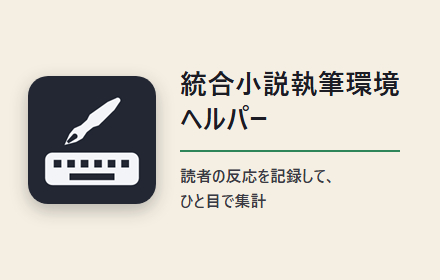
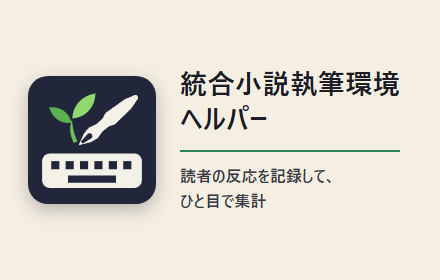
0.18.0：アイコンを 1.0.0 の共通アイコンへ前倒しで切り替える（作者の頼み、ストアの初回の提出に合わせて）
見張り（配布物の icons/ が docs/assets/icon-1.0.0 と同じ中身・ツールバー用の芽）を先に足してから写した。
ストアのアイコンとタイルも作り直し、提出の材料の版を 0.18.0 に揃えた。

Changed region(s): [[0.0886, 0.5429, 0.325, 0.6857], [0.0886, 0.3143, 0.325, 0.5143]]

diff --git a/test/icons.test.js b/test/icons.test.js
@@ -31,7 +31,17 @@ describe("ツールバー用のアイコン", () => {
     expect(existsSync(join(ルート, "icons", "toolbar.svg"))).toBe(true);
   });
 
-  ツールバーの絵を見張る("icons");
+  // 0.18.0：1.0.0 の共通アイコンへ切り替えた（作者の頼み 2026-11-01「アイコンは1.0.0以降のものにしてください」。
+  // Chrome ウェブストアへの初回の提出に合わせて前倒し）。芽の見張りも配布物の側で効かせる
+  ツールバーの絵を見張る("icons", { 芽: true });
+
+  it("配布物のアイコン一式は、docs/assets/icon-1.0.0 の共通アイコンと同じ中身", () => {
+    for (const 名前 of ["icon16.png", "icon32.png", "icon48.png", "icon128.png", "toolbar.svg", "toolbar16.png", "toolbar24.png", "toolbar32.png"]) {
+      const 配布 = readFileSync(join(ルート, "icons", 名前));
+      const 共通 = readFileSync(join(ルート, "docs", "assets", "icon-1.0.0", 名前));
+      expect(配布.equals(共通), 名前).toBe(true);
+    }
+  });
 });
 
 /**

diff --git a/store/提出の手順.md b/store/提出の手順.md
@@ -3,7 +3,7 @@
 統合小説執筆環境ヘルパーを、Chrome ウェブストアへ初めて出すときの手順です。
 **送信・支払い・同意は、すべて作者が押します。** Claude は材料を揃えただけで、ダッシュボードには触れていません。
 
-- 出す版：**0.17.3**（manifest.json・package.json とも 0.17.3。2026-11-01）
+- 出す版：**0.18.0**（manifest.json・package.json とも 0.18.0。2026-11-01。アイコンは 1.0.0 の共通アイコン）
 - 2回目以降は GitHub Actions で出せます（`store/自動公開の準備.md`）。初回だけは、この手順で手で出します
 - ダッシュボードの画面の項目名は、Claude が画面で確かめていません（2026-11-01）。名前が少し違っていたら、いちばん近いものを選んでください
 
@@ -36,13 +36,13 @@ Set-Location C:\Users\nonah\Documents\novel-post-helper
 npm run pack
 ```
 
-`dist\novel-ai-helper-0.17.3.zip` ができます（36ファイル・約178KB）。中身は拡張の実行に要るファイルだけで、
+`dist\novel-ai-helper-0.18.0.zip` ができます（36ファイル・約178KB）。中身は拡張の実行に要るファイルだけで、
 テスト・文書・ストアの材料・node_modules は入りません（2026-11-01 に確かめた）。
 
 ## 3. 新しいアイテムとして ZIP を上げる
 
 1. ダッシュボードの［新しいアイテム］（＋ New item）
-2. 上の `dist\novel-ai-helper-0.17.3.zip` を選んで上げる
+2. 上の `dist\novel-ai-helper-0.18.0.zip` を選んで上げる
 3. 名前「統合小説執筆環境ヘルパー」と概要は manifest.json から自動で入ります（ダッシュボードでは直せません）
 
 ## 4. ［ストアの掲載情報］（Store listing）
@@ -60,7 +60,7 @@ npm run pack
 | サポートの URL | https://github.com/nonahisa/novel-ai-helper/issues |
 | 成人向けの内容 | いいえ |
 
-画像は 2026-11-01 に `npm run store:images` で作り直した（説明のページの版の札が v0.17.3）。写っているのは架空の作品
+画像は 2026-11-01 に `npm run store:images` で作り直した（説明のページの版の札が v0.18.0）。写っているのは架空の作品
 （作品ID `1000000000000000001`・Nコード `N0000AA`）の見本の数だけで、作者の作品名・作品ID は写っていません。
 
 ## 5. ［プライバシーへの取り組み］（Privacy practices）

diff --git a/README.md b/README.md
@@ -737,7 +737,7 @@ novel-post-helper/
 ├─ offscreen.html/.js 画面に出ない、クリップボードの受け渡しのページ（押したときだけ開いて閉じる。0.8.0）
 ├─ bubble.html/.css/.js アイコンの吹き出し（「開いたときに自動で取得しますか？」と「取得しました」。出すときだけ結び付ける。0.14.0）
 ├─ options.html/.css/.js  説明のページ（使い方と「この拡張がしないこと」。0.8.0）。溜まり・覚えた作品の一覧、もう一度渡す（0.9.0）。はじめにの手順・読者の反応の集計・統合小説執筆環境への案内（0.10.0）
-├─ icons/             アイコン（統合小説執筆環境のアイコンから作った 16・32・48・128）と、ツールバー用の四角の無いアイコン
+├─ icons/             アイコン（1.0.0 の共通アイコン。芽の生えたペンとキーボード。16・32・48・128）と、ツールバー用の四角の無いアイコン
 │                     （toolbar.svg から `npm run icons` で作る 16・24・32。0.12.2）
 ├─ common/            画面にもページにも依存しない、素の判定（テストがあるのはここ）
 │  ├─ envelope.js     受け渡しのデータの検証（版・サイト・題・本文・作品ID）

diff --git a/store/listing.md b/store/listing.md
@@ -19,7 +19,7 @@ Chrome ウェブストアのデベロッパー ダッシュボード「ストア
 ご自分の作品の読者の反応（PV・ブックマーク・評価）を管理画面を開いたときに記録し、作品ごとに推移や離脱率を簡単に集計します。VS Code の「統合小説執筆環境」と一緒に使えば、原稿を投稿画面の欄へ入れることもできます。通信はしません。
 ```
 
-0.17.3 でもこの文のまま正しい（アルファポリス・タグ・公募は、下の詳しい説明に書いた）。
+0.18.0 でもこの文のまま正しい（アルファポリス・タグ・公募は、下の詳しい説明に書いた）。
 直すなら manifest.json を変えることになり、ZIP の中身が変わるので版を上げる（0.17.2）。2026-11-01 の提出の準備では直していない。
 
 ## カテゴリの候補

diff --git a/docs/実装の残り.md b/docs/実装の残り.md
@@ -26,4 +26,4 @@
 - [ ] Chrome ウェブストアへの公開（材料は `store/`。載ったら統合小説執筆環境の `HELPER_DOWNLOAD_URL` をストアの URL へ差し替えてもらう）
 - [ ] 章立ての封筒（`novelai-chapters`）を受け手の本物に読ませるテスト
 - [ ] 版を見張るテストが、設計書・引継ぎ書の版も見る
-- [ ] 1.0.0 で配布物のアイコンを共通アイコンへ切り替える（`docs/assets/icon-1.0.0/` を `icons/` へ写し、ストア画像を作り直し、`test/icons.test.js` の見張りを移し、README の説明を直す）
+- [x] 1.0.0 で配布物のアイコンを共通アイコンへ切り替える（`docs/assets/icon-1.0.0/` を `icons/` へ写し、ストア画像を作り直し、`test/icons.test.js` の見張りを移し、README の説明を直す）（0.18.0 で前倒し。作者の頼み 2026-11-01）

diff --git a/store/permissions.md b/store/permissions.md
@@ -1,7 +1,7 @@
 # 審査欄に貼る文（プライバシーへの取り組み）
 
 Chrome ウェブストアのデベロッパー ダッシュボード「プライバシーへの取り組み（Privacy practices）」の各欄へ貼る文です。
-manifest.json（0.17.3）の権限・入るページの範囲を**1つ残らず**挙げてあります。権限を足した・減らした日は、ここも直してください
+manifest.json（0.18.0）の権限・入るページの範囲を**1つ残らず**挙げてあります。権限を足した・減らした日は、ここも直してください
 （`test/redLine.test.js` の「権限は最小のまま」が、manifest の権限の並びを見張っています）。
 
 ---

diff --git a/docs/設計書.md b/docs/設計書.md
@@ -1,6 +1,6 @@
 # 統合小説執筆環境ヘルパー 設計書
 
-version 0.17.3 / 2026-11-01
+version 0.18.0 / 2026-11-01
 
 この文書の版は**拡張の版に合わせる**（`manifest.json` と `package.json`）。版を上げたら、この行と `docs/進捗と引継ぎ.md` の「いまの状態」の表もそろえる（見張るテストはまだ無い）。
 
